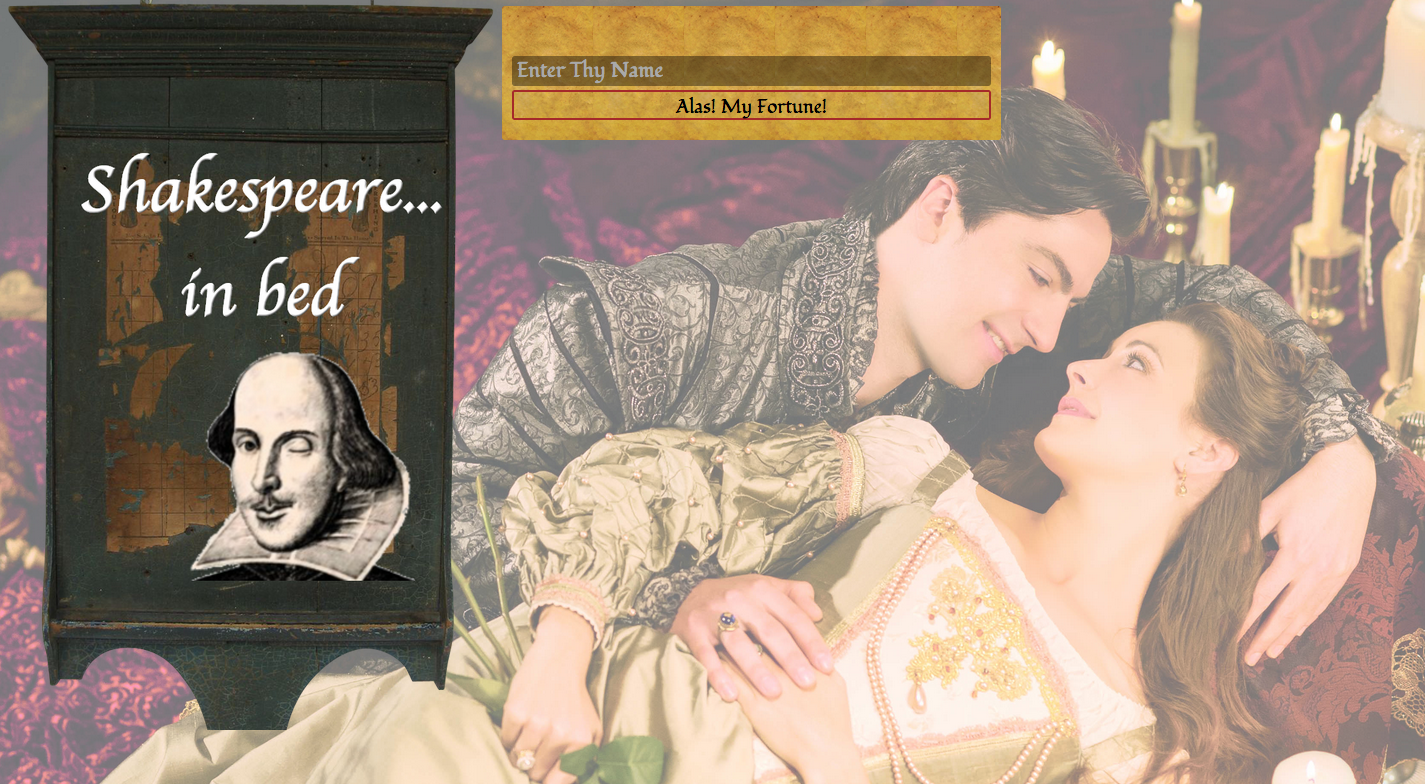
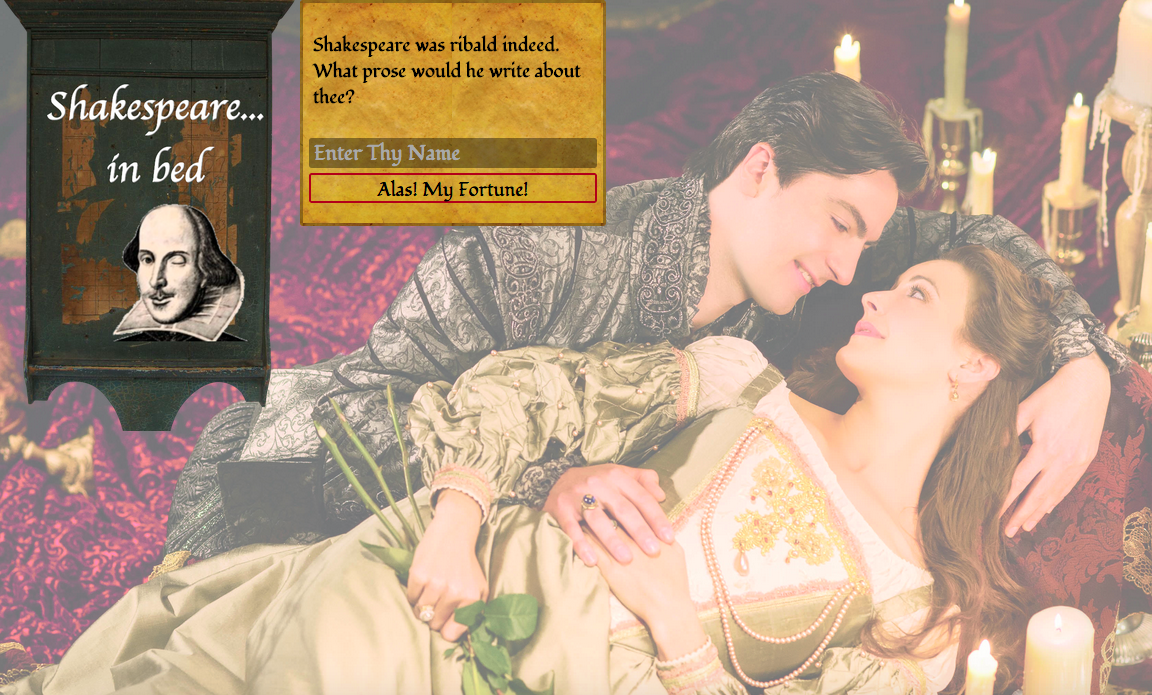
mobile view on readme

diff --git a/README.md b/README.md
@@ -1,18 +1,14 @@
 # Shakespeare... in Bed
-<br>
-####A General Assembly - Chicago, Web Development Immersive project started and completed for class the afternoon of April 3, 2015. It was cloned into my personal GitHub repository August 14, 2015 in order to add basic css styling.
+#### A General Assembly - Chicago, Web Development Immersive project started and completed for class the afternoon of April 3, 2015. It was cloned into my personal GitHub repository August 14, 2015 in order to add basic css styling, and a Sinatra back-end for Heroku deployment.
 
 ## AJAX
-<br>
 This site completes a jQuery AJAX call to a markov-chain random Shakespeare line API.
 
 
 ## Let's have some fun!
-<br>
 In order to personalize what was the first "project" for the Web Development Immersive program, I included the fun with fortune cookies style ending "in bed" to the click event function. Also, a form was created so that users could specify a name to display with the random generated line and "in bed" phrase.
 
 ## Code Highlight
-<br>
 The most important part of the project code contains the click event and ajax call.
 ```
 $("#form-name").on("submit", function(e){
@@ -34,10 +30,26 @@ $("#form-name").on("submit", function(e){
 
 ```
 
-##Screenshots
-<br>
-####When Page loads:
+## Technologies Used
+
+### Front-End
+- HTML 5
+- CSS 3
+- Responsive Design & Media Query
+- JavaScript
+- jQuery
+- AJAX
+- RegEx
+
+### Back-End
+- Ruby
+- Sinatra
+- Heroku
+
+## Screenshots
+#### When Page loads:
 ![initial view](https://raw.github.com/theetommyt/Shakespeare-in-bed/master/images/initialView.png)
 <br>
-####After a name is entered:
+#### After a name is entered:
 ![updated view](https://raw.github.com/theetommyt/Shakespeare-in-bed/master/images/updatedView.png)
+![mobile view](https://raw.github.com/theetommyt/Shakespeare-in-bed/master/images/mobileView.png)
